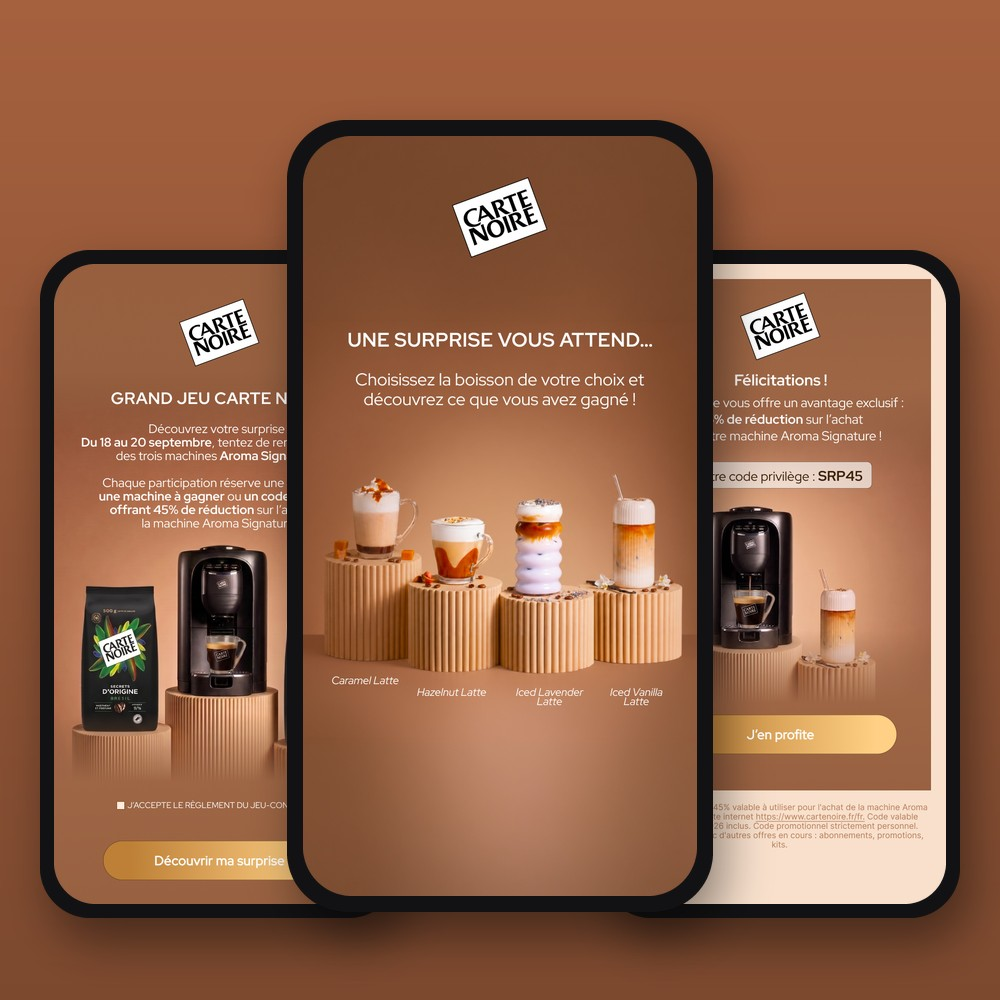
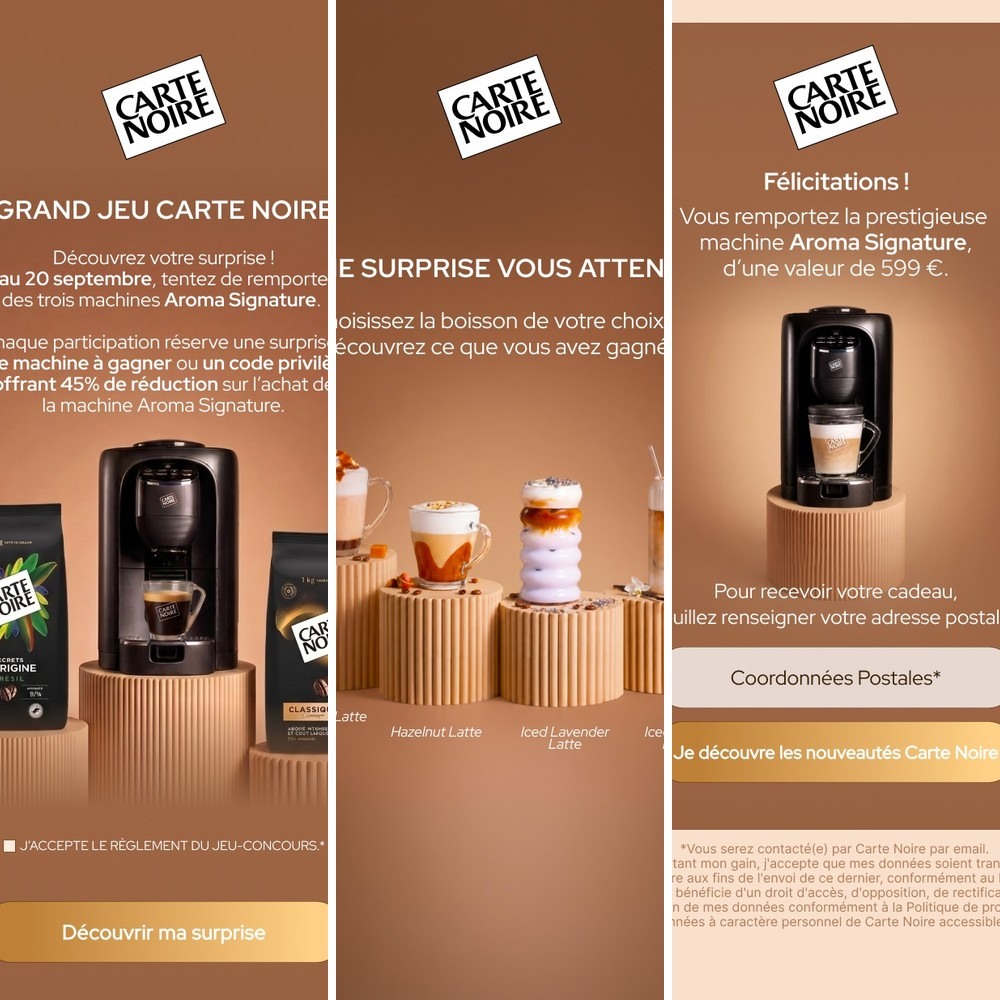
Écrans de jeux : affichage à plat en lignes de 4, sans cadre de téléphone
Claude-Session: https://claude.ai/code/session_01Pdku65c3q2fjf8meNUjz9e

diff --git a/data.js b/data.js
@@ -199,15 +199,16 @@ const PROJECTS = [
         title: "Voir les écrans de jeux",
         heading: "Écrans de jeux",
         image: "images/carte-noire/tuile-ecrans.jpg",
-        phones: [
-          { src: "images/carte-noire/ecrans/01-accueil.jpg", caption: "Accueil du jeu" },
-          { src: "images/carte-noire/ecrans/02-surprise.jpg", caption: "Choix de la boisson" },
-          { src: "images/carte-noire/ecrans/03-gagne-machine.jpg", caption: "Gagné : la machine" },
-          { src: "images/carte-noire/ecrans/04-gagne-code.jpg", caption: "Gagné : le code privilège" },
-          { src: "images/carte-noire/ecrans/05-consentements.jpg", caption: "Consentements" },
-          { src: "images/carte-noire/ecrans/06-deja-participe.jpg", caption: "Déjà participé" },
-          { src: "images/carte-noire/ecrans/07-connexion.jpg", caption: "Connexion à l’application" },
-          { src: "images/carte-noire/ecrans/08-merci.jpg", caption: "Remerciement" }
+        rowSizes: [4, 4],
+        images: [
+          { src: "images/carte-noire/ecrans/01-accueil.jpg", ratio: 0.519, caption: "Accueil du jeu" },
+          { src: "images/carte-noire/ecrans/02-surprise.jpg", ratio: 0.519, caption: "Choix de la boisson" },
+          { src: "images/carte-noire/ecrans/03-gagne-machine.jpg", ratio: 0.519, caption: "Gagné : la machine" },
+          { src: "images/carte-noire/ecrans/04-gagne-code.jpg", ratio: 0.519, caption: "Gagné : le code privilège" },
+          { src: "images/carte-noire/ecrans/05-consentements.jpg", ratio: 0.519, caption: "Consentements" },
+          { src: "images/carte-noire/ecrans/06-deja-participe.jpg", ratio: 0.519, caption: "Déjà participé" },
+          { src: "images/carte-noire/ecrans/07-connexion.jpg", ratio: 0.519, caption: "Connexion à l’application" },
+          { src: "images/carte-noire/ecrans/08-merci.jpg", ratio: 0.519, caption: "Remerciement" }
         ]
       },
       {

diff --git a/about.html b/about.html
@@ -1,7 +1,7 @@
 <!doctype html><html lang="fr"><head><meta charset="utf-8"><meta name="viewport" content="width=device-width, initial-scale=1"><meta name="theme-color" content="#ffffff">
 <link rel="preconnect" href="https://fonts.googleapis.com"><link rel="preconnect" href="https://fonts.gstatic.com" crossorigin>
 <link href="https://fonts.googleapis.com/css2?family=Outfit:wght@400;500;600&display=swap" rel="stylesheet">
-<link rel="stylesheet" href="style.css?v=15"><title>À propos</title></head>
+<link rel="stylesheet" href="style.css?v=16"><title>À propos</title></head>
 <body data-page="about"><main class="about">
 <h1 class="page-title">À propos</h1>
 <p class="statement">Diplômée d’un Mastère en Création Digitale, j’ai 3 ans d’expérience en alternance.<br>Je suis passionnée par l’UI design, le motion et les outils d’IA générative.</p>
@@ -33,4 +33,4 @@
 <h2 style="margin-top:40px">Langues</h2><p class="plain">Français, anglais (C1)</p></section>
 <section><h2>Centres d’intérêt</h2><ul class="chips"><li>Musique</li><li>Cuisine</li><li>Lecture</li><li>Jeux vidéo</li><li>Graphisme</li><li>Illustration</li></ul></section>
 </div>
-</main><script src="data.js?v=15"></script><script src="site.js?v=15"></script></body></html>
+</main><script src="data.js?v=16"></script><script src="site.js?v=16"></script></body></html>

diff --git a/contact.html b/contact.html
@@ -1,11 +1,11 @@
 <!doctype html><html lang="fr"><head><meta charset="utf-8"><meta name="viewport" content="width=device-width, initial-scale=1"><meta name="theme-color" content="#ffffff">
 <link rel="preconnect" href="https://fonts.googleapis.com"><link rel="preconnect" href="https://fonts.gstatic.com" crossorigin>
 <link href="https://fonts.googleapis.com/css2?family=Outfit:wght@400;500;600&display=swap" rel="stylesheet">
-<link rel="stylesheet" href="style.css?v=15"><title>Contact</title></head>
+<link rel="stylesheet" href="style.css?v=16"><title>Contact</title></head>
 <body data-page="contact"><main><div class="contact">
 <h1 class="page-title">Contact</h1>
 <p>Une question, une idée de projet ? Écrivez-moi :</p>
 <a class="mail" id="mail" href="#"></a>
 <p>Vous me trouverez aussi sur :</p>
 <ul id="links"></ul>
-</div></main><script src="data.js?v=15"></script><script src="site.js?v=15"></script></body></html>
+</div></main><script src="data.js?v=16"></script><script src="site.js?v=16"></script></body></html>

diff --git a/index.html b/index.html
@@ -1,10 +1,10 @@
 <!doctype html><html lang="fr"><head><meta charset="utf-8"><meta name="viewport" content="width=device-width, initial-scale=1"><meta name="theme-color" content="#ffffff">
 <link rel="preconnect" href="https://fonts.googleapis.com"><link rel="preconnect" href="https://fonts.gstatic.com" crossorigin>
 <link href="https://fonts.googleapis.com/css2?family=Outfit:wght@400;500;600&display=swap" rel="stylesheet">
-<link rel="stylesheet" href="style.css?v=15"><title>Portfolio</title></head>
+<link rel="stylesheet" href="style.css?v=16"><title>Portfolio</title></head>
 <body data-page="home"><main>
 <section class="intro"><h1 class="hero-name" id="name"></h1>
 <div class="intro-row"><p id="role"></p></div></section>
 <h2 class="section-title">Projets</h2>
 <section class="grid" id="grid" aria-label="Projets"></section>
-</main><script src="data.js?v=15"></script><script src="site.js?v=15"></script></body></html>
+</main><script src="data.js?v=16"></script><script src="site.js?v=16"></script></body></html>

diff --git a/project.html b/project.html
@@ -1,5 +1,5 @@
 <!doctype html><html lang="fr"><head><meta charset="utf-8"><meta name="viewport" content="width=device-width, initial-scale=1"><meta name="theme-color" content="#ffffff">
 <link rel="preconnect" href="https://fonts.googleapis.com"><link rel="preconnect" href="https://fonts.gstatic.com" crossorigin>
 <link href="https://fonts.googleapis.com/css2?family=Outfit:wght@400;500;600&display=swap" rel="stylesheet">
-<link rel="stylesheet" href="style.css?v=15"><title>Projet</title></head>
-<body data-page="project"><main id="project"></main><script src="data.js?v=15"></script><script src="site.js?v=15"></script></body></html>
+<link rel="stylesheet" href="style.css?v=16"><title>Projet</title></head>
+<body data-page="project"><main id="project"></main><script src="data.js?v=16"></script><script src="site.js?v=16"></script></body></html>
